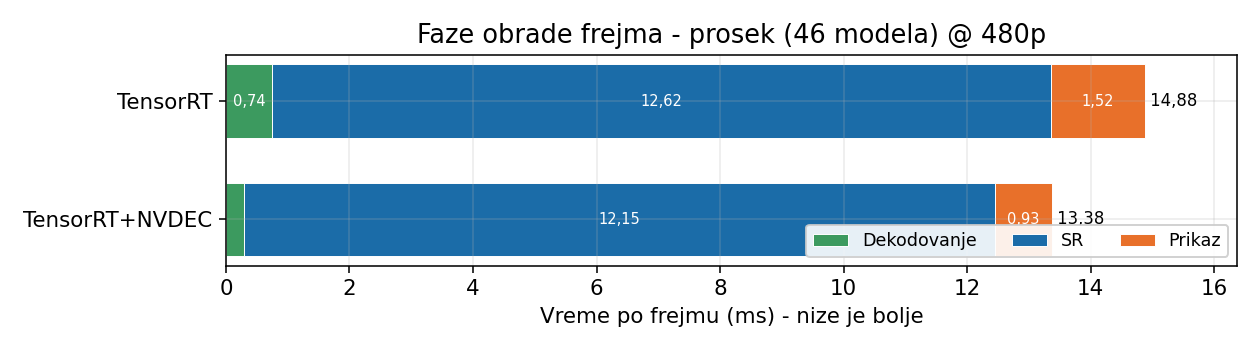
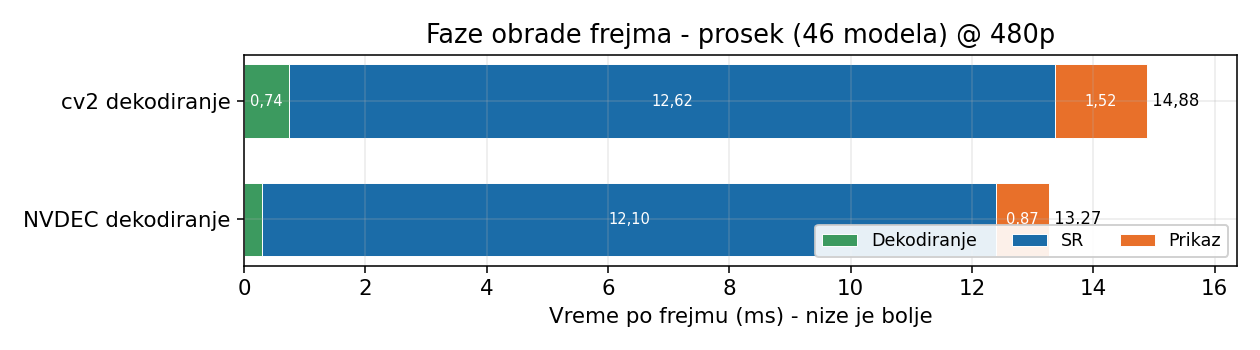
Updated results

diff --git a/scripts/analysis/runtimes/stage_compare.py b/scripts/analysis/runtimes/stage_compare.py
@@ -46,7 +46,7 @@ RUNTYPE_LABELS = {
 
 # Faze (kratka oznaka -> deo imena kolone, spaja se sa "res": f"{res} {key}").
 STAGE_LABELS = {
-    "decode": "Dekodovanje",
+    "decode": "Dekodiranje",
     "sr": "SR",
     "display": "Prikaz",
 }
@@ -66,7 +66,9 @@ CONFIG_DEFAULTS = {
     # zajednickih modela svih ukljucenih backend-a)
     "stages": ["decode", "sr", "display"],  # faze i njihov redosled u baru
     "runtypes": None,  # None -> svi backend-i koji imaju taj model
-    # (redom iz RUNTYPE_LABELS); ili lista tacnih
+    # (redom iz RUNTYPE_LABELS); ili lista tacnih runtype-ova; ili dict
+    # {runtype: oznaka} - zadata oznaka zamenjuje onu iz RUNTYPE_LABELS
+    # (None -> oznaka iz RUNTYPE_LABELS)
     "out": None,  # None -> stages_<name>.png
     "legend_loc": "lower right",  # pozicija legende (matplotlib loc)
     "dpi": 140,
@@ -88,32 +90,46 @@ CONFIGS = [
     {
         "name": "prosek_decode",
         "model": "prosek",
-        "runtypes": ["tensorrt", "tensorrt-nvdec"]
+        "runtypes": {"tensorrt": "cv2 dekodiranje", "tensorrt-nvdec": "NVDEC dekodiranje"},
     },
     {
         "name": "prosek_display",
         "model": "prosek",
-        "runtypes": ["tensorrt", "tensorrt-nvdec", "tensorrt-nvdec-gl"]
+        "runtypes": {"tensorrt": "cv2 dekodiranje\ncv2 prikaz", "tensorrt-nvdec": "NVDEC dekodiranje\ncv2 prikaz",
+                     "tensorrt-nvdec-gl": "NVDEC dekodiranje\nOpenGL prikaz"},
     },
     {
         "name": "FastEDSR_2_32_decode",
         "model": "SR_FastEDSR_2_32",
-        "runtypes": ["tensorrt", "tensorrt-nvdec"]
+        "runtypes": {"tensorrt": "cv2 dekodiranje", "tensorrt-nvdec": "NVDEC dekodiranje"},
     },
     {
         "name": "FastEDSR_2_32_display",
         "model": "SR_FastEDSR_2_32",
-        "runtypes": ["tensorrt", "tensorrt-nvdec", "tensorrt-nvdec-gl"]
+        "runtypes": {"tensorrt": "cv2 dekodiranje\ncv2 prikaz", "tensorrt-nvdec": "NVDEC dekodiranje\ncv2 prikaz",
+                     "tensorrt-nvdec-gl": "NVDEC dekodiranje\nOpenGL prikaz"},
+    },
+    {
+        "name": "FastEDSR_4_32_decode",
+        "model": "SR_FastEDSR_4_32",
+        "runtypes": {"tensorrt": "cv2 dekodiranje", "tensorrt-nvdec": "NVDEC dekodiranje"},
+    },
+    {
+        "name": "FastEDSR_4_32_display",
+        "model": "SR_FastEDSR_4_32",
+        "runtypes": {"tensorrt": "cv2 dekodiranje\ncv2 prikaz", "tensorrt-nvdec": "NVDEC dekodiranje\ncv2 prikaz",
+                     "tensorrt-nvdec-gl": "NVDEC dekodiranje\nOpenGL prikaz"},
     },
     {
         "name": "FastEDSR_4_128_decode",
         "model": "SR_FastEDSR_4_128",
-        "runtypes": ["tensorrt", "tensorrt-nvdec"]
+        "runtypes": {"tensorrt": "cv2 dekodiranje", "tensorrt-nvdec": "NVDEC dekodiranje"},
     },
     {
         "name": "FastEDSR_4_128_display",
         "model": "SR_FastEDSR_4_128",
-        "runtypes": ["tensorrt", "tensorrt-nvdec", "tensorrt-nvdec-gl"]
+        "runtypes": {"tensorrt": "cv2 dekodiranje\ncv2 prikaz", "tensorrt-nvdec": "NVDEC dekodiranje\ncv2 prikaz",
+                     "tensorrt-nvdec-gl": "NVDEC dekodiranje\nOpenGL prikaz"},
     },
 ]
 
@@ -140,8 +156,22 @@ def zf(value, spec) -> str:
     return format(value, spec).replace(".", ",")
 
 
-def label_for(rt):
+def label_for(rt, labels=None):
+    if labels and rt in labels:
+        return labels[rt]
     return RUNTYPE_LABELS.get(rt, rt)
+
+
+def normalize_runtypes(runtypes):
+    """Vrati (lista runtype-ova ili None, {runtype: oznaka}) iz cfg.runtypes.
+
+    Prihvata None, listu runtype-ova ili dict {runtype: oznaka}.
+    """
+    if not runtypes:
+        return None, {}
+    if isinstance(runtypes, dict):
+        return list(runtypes), {rt: lbl for rt, lbl in runtypes.items() if lbl}
+    return list(runtypes), {}
 
 
 def load_model(path, cols, cfg):
@@ -203,7 +233,7 @@ def load_model(path, cols, cfg):
     return order, data, n_models
 
 
-def plot(runtypes, data, stages, cols, title, res, legend_loc, dpi):
+def plot(runtypes, data, stages, cols, title, res, legend_loc, dpi, labels=None):
     """Stacked horizontalni bar: red = backend, segmenti = faze (ms)."""
     plt.rcParams.update({"font.size": 11, "axes.grid": True,
                          "grid.alpha": 0.25, "figure.dpi": dpi})
@@ -237,7 +267,7 @@ def plot(runtypes, data, stages, cols, title, res, legend_loc, dpi):
         ax.text(total, y, f" {zf(total, '.2f')}", va="center", ha="left", fontsize=8.5)
 
     ax.set_yticks(ys)
-    ax.set_yticklabels([label_for(rt) for rt in runtypes])
+    ax.set_yticklabels([label_for(rt, labels) for rt in runtypes])
     ax.invert_yaxis()  # prvi backend na vrhu
     ax.set_xlabel("Vreme po frejmu (ms) - nize je bolje")
     ax.set_title(f"Faze obrade frejma - {title} @ {res}")
@@ -263,6 +293,7 @@ def run_config(cfg):
     if not results_path.exists():
         sys.exit(f"CSV ne postoji: {results_path}")
 
+    cfg.runtypes, labels = normalize_runtypes(cfg.runtypes)
     cols = [f"{cfg.res} {s}" for s in cfg.stages]
     runtypes, data, n_models = load_model(results_path, cols, cfg)
     if not runtypes:
@@ -273,7 +304,7 @@ def run_config(cfg):
     title = f"prosek ({n_models} modela)" if is_avg else cfg.model
 
     fig = plot(runtypes, data, cfg.stages, cols, title, cfg.res,
-               cfg.legend_loc, cfg.dpi)
+               cfg.legend_loc, cfg.dpi, labels)
 
     out_name = cfg.out or f"stages_{cfg.name}.png"
     out_path = get_results_path("analysis/stages") / out_name
@@ -283,12 +314,12 @@ def run_config(cfg):
 
     model_info = f"prosek/{n_models} modela" if is_avg else cfg.model
     print(f"Izvor: {results_path}  ({cfg.res}, model={model_info})")
-    print(f"Backend-ovi: {', '.join(label_for(rt) for rt in runtypes)}")
+    print(f"Backend-ovi: {', '.join(label_for(rt, labels) for rt in runtypes)}")
     for rt in runtypes:
         parts = "  ".join(f"{STAGE_LABELS.get(s, s)}={zf(data[rt][c], '.2f')}"
                           for s, c in zip(cfg.stages, cols))
         total = sum(data[rt][c] for c in cols)
-        print(f"  {label_for(rt):<18} {parts}   Ukupno={zf(total, '.2f')}ms")
+        print(f"  {label_for(rt, labels):<18} {parts}   Ukupno={zf(total, '.2f')}ms")
     print(f"Slika:  {out_path}")
 
 

diff --git a/scripts/analysis/runtimes/runtimes_compare.py b/scripts/analysis/runtimes/runtimes_compare.py
@@ -66,9 +66,9 @@ CONFIG_DEFAULTS = {
     # (tim redom), npr. ["onnxruntime-tensorrt", "tensorrt"]
     "metrics": ["sr"],  # metrike (grupe na y-osi): decode/sr/display/total
     "group_by": "metric",  # "metric" -> grupe = metrike; "size" -> grupe = velicine
-    "size_bins": [         # koristi se samo kad je group_by == "size" (prva metrika)
-        ("Mali\nmodeli", 0, 100_000),          # params u [0, 100k)
-        ("Veliki\nmodeli", 100_000, None),     # params >= 100k (None = bez gornje granice)
+    "size_bins": [  # koristi se samo kad je group_by == "size" (prva metrika)
+        ("Mali\nmodeli", 0, 100_000),  # params u [0, 100k)
+        ("Veliki\nmodeli", 100_000, None),  # params >= 100k (None = bez gornje granice)
     ],
     "archs": None,  # zadrzi samo ove arhitekture (npr. ["EDSR"])
     "include": None,  # zadrzi samo modele cije ime sadrzi neku nisku
@@ -83,20 +83,17 @@ CONFIG_DEFAULTS = {
 
 CONFIGS = [
     {
-        "name": "sr",
-        "metrics": ["sr"],
-        "unit": "ms",
-    },
-    {
-        "name": "sr",
+        "name": "ort_sr",
         "metrics": ["sr"],
         "unit": "fps",
+        "runtypes": ["onnxruntime-cuda", "onnxruntime-directml", "onnxruntime-tensorrt"],
     },
     {
-        "name": "sr_by_size",
+        "name": "ort_sr_by_size",
         "metrics": ["sr"],
         "unit": "fps",
         "group_by": "size",
+        "runtypes": ["onnxruntime-cuda", "onnxruntime-directml", "onnxruntime-tensorrt"],
     },
     {
         "name": "ort_vs_trt",
@@ -130,11 +127,19 @@ CONFIGS = [
         "runtypes": ["onnxruntime-tensorrt", "tensorrt"],
     },
     {
-        "name": "ort_vs_trt_vs_ncnn",
+        "name": "ncnn",
         "metrics": ["sr"],
-        "unit": "ms",
-        "runtypes": ["onnxruntime-tensorrt", "tensorrt", "ncnn-vulkan"],
-        "legend_loc": "upper right"
+        "unit": "fps",
+        "runtypes": ["onnxruntime-directml", "ncnn-vulkan"],
+        "legend_loc": "upper left"
+    },
+    {
+        "name": "ncnn_by_size",
+        "metrics": ["sr"],
+        "unit": "fps",
+        "group_by": "size",
+        "runtypes": ["onnxruntime-directml", "ncnn-vulkan"],
+        "legend_loc": "lower right"
     },
     {
         "name": "ort_vs_trt_vs_ncnn",
